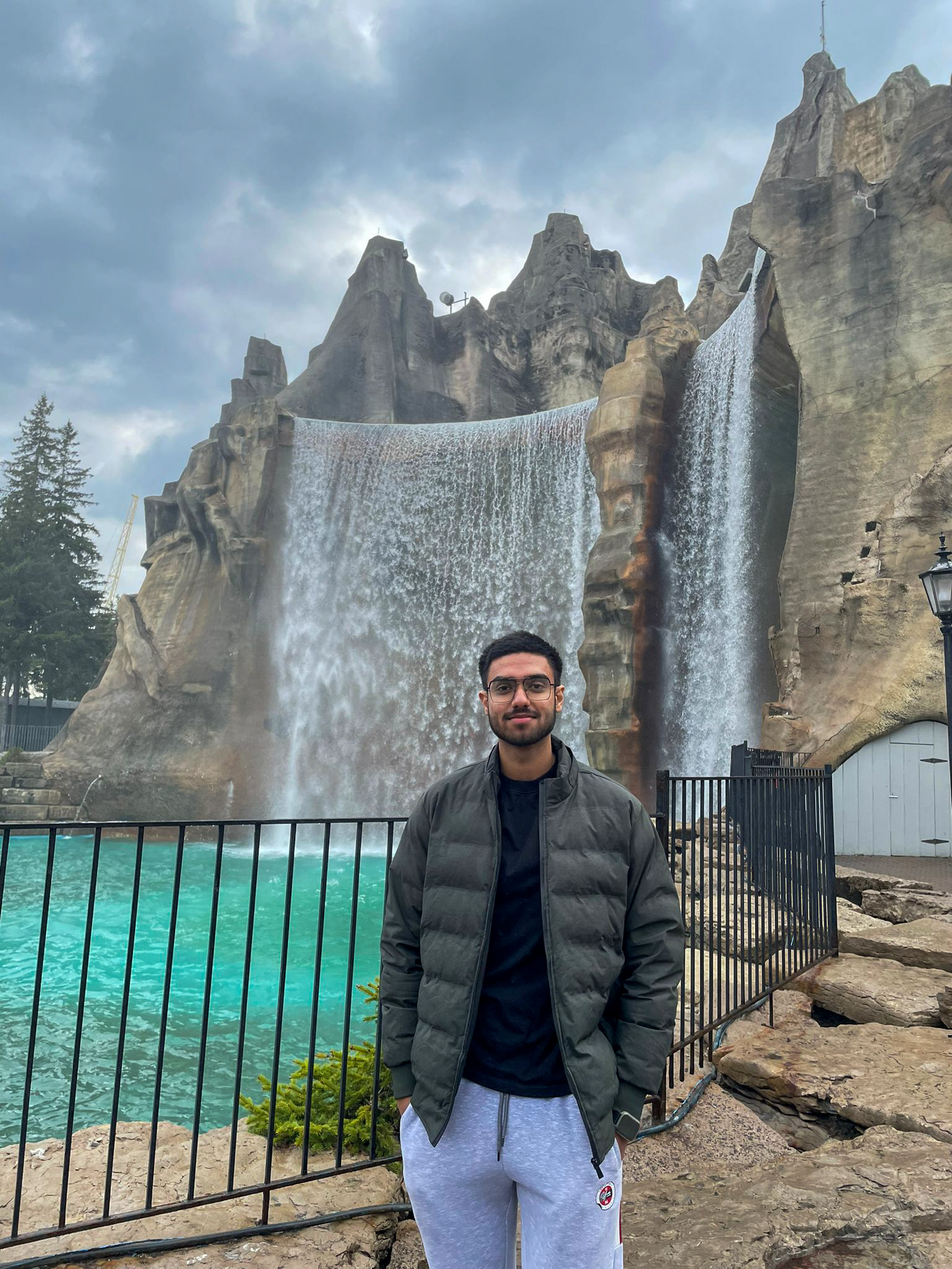
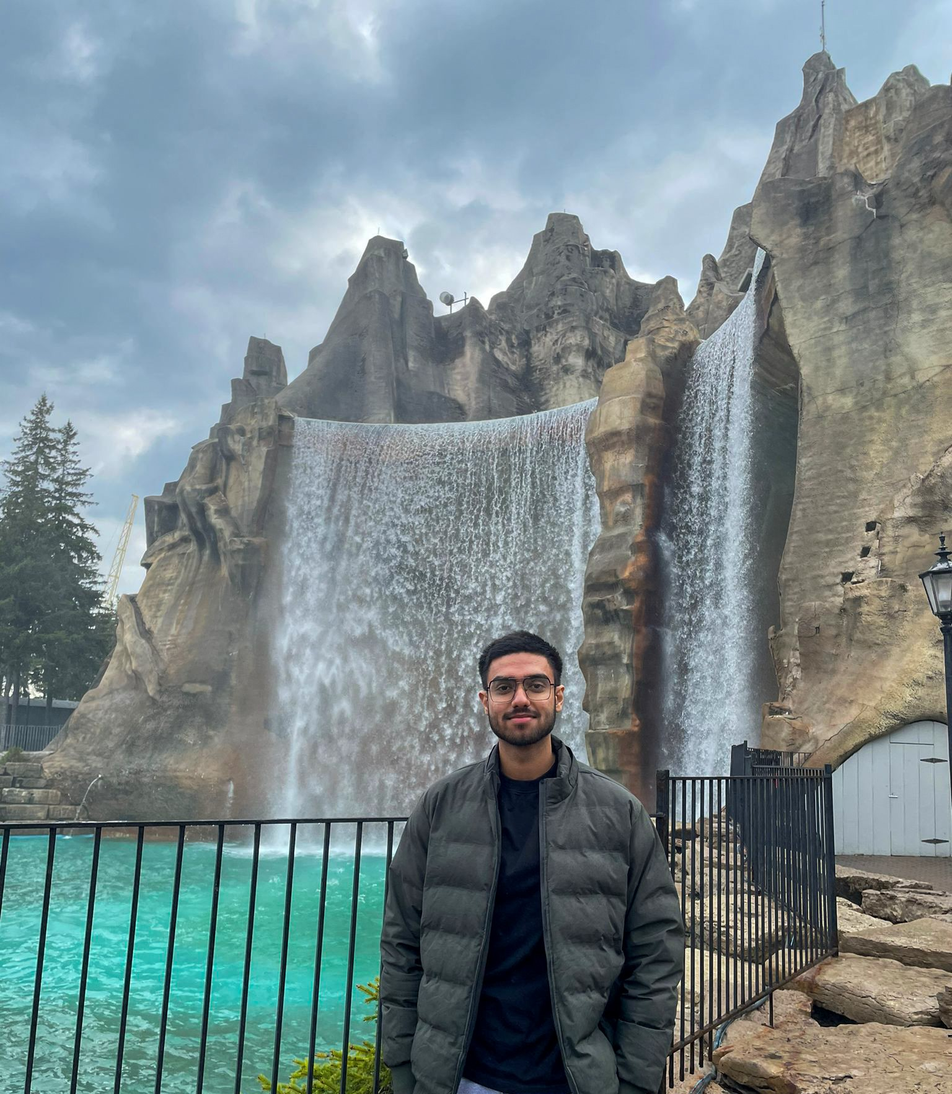
hero image

diff --git a/src/app/page.jsx b/src/app/page.jsx
@@ -40,7 +40,7 @@ const Homepage = () => {
         {/* Image container */}
         <div className="h-1/2 lg:h-full lg:w-1/2 relative">
           <Image
-            src="./hero.webp"
+            src="./rawCropped.jpg"
             alt="hero Image"
             fill
             className="object-contain"
